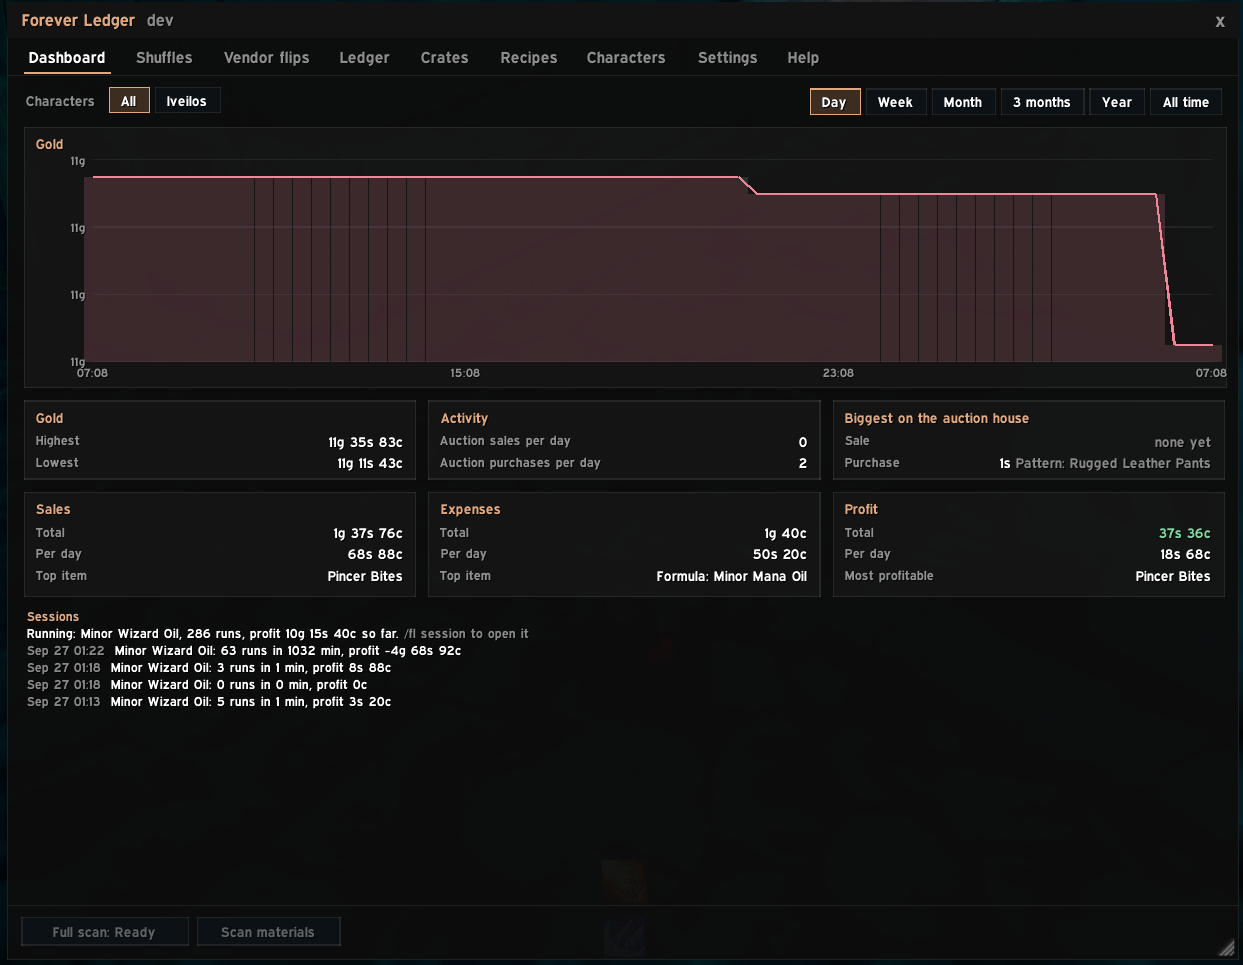
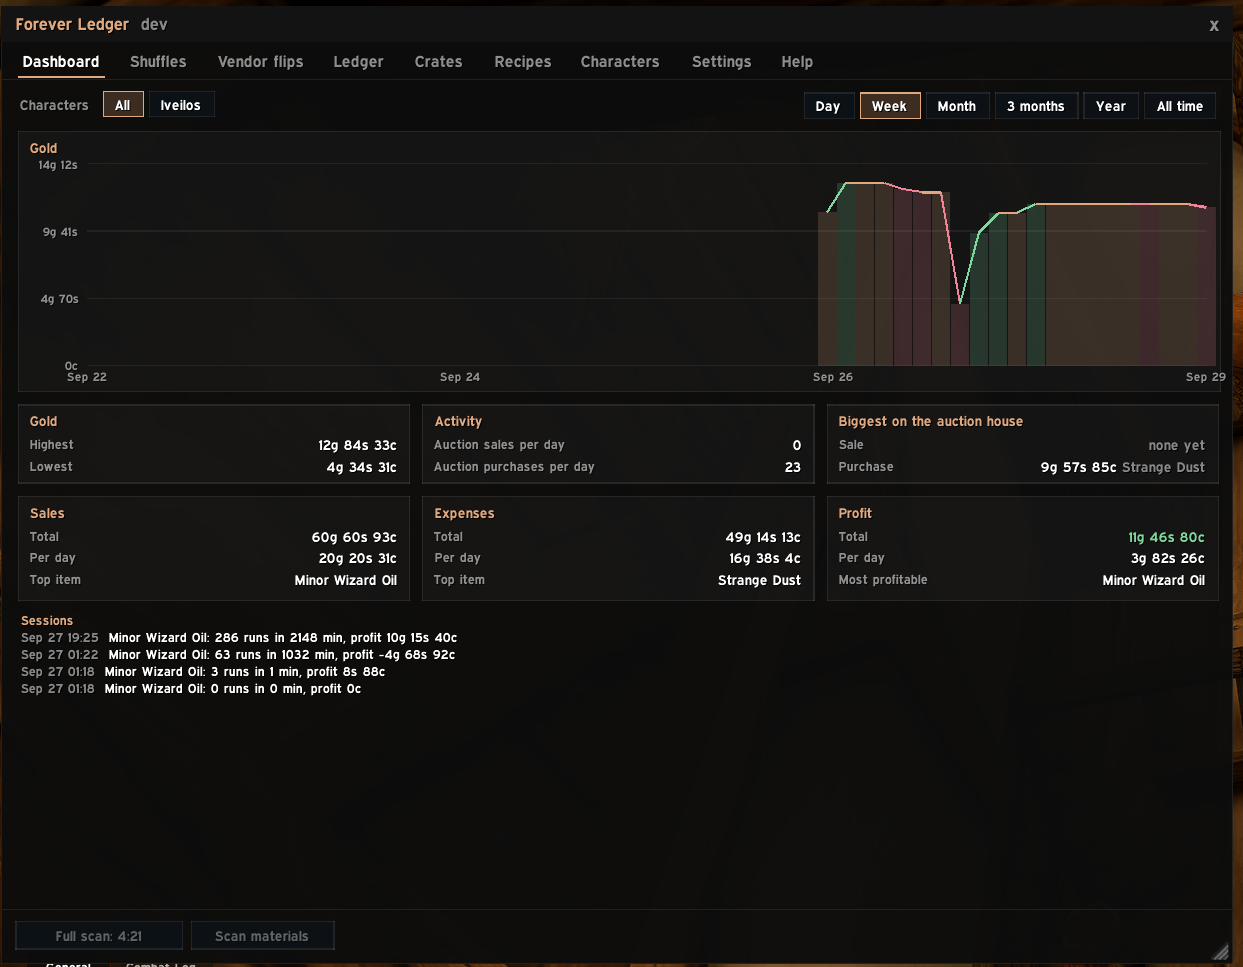
Add Recipes and Crates pictures to the guide and update the Dashboard one

diff --git a/docs/GUIDE.md b/docs/GUIDE.md
@@ -51,13 +51,15 @@ Everything the addon does, at a high level. The same text is in the game under *
 - **Where from**: what you've seen in game first, otherwise original Classic data marked "(Classic)". **Pin** puts a map pin on the vendor, trainer or mob.
 - **Trainers view**: trainers you've visited, Classic ones, and the spots city guards mark when you ask them for a profession trainer (marked "guard").
 
-<!-- image: images/recipes.png and images/trainers.png -->
+![Recipes tab, Cooking recipes not known yet](images/recipes.png)
+
+<!-- image: images/trainers.png -->
 
 ## Waylaid Crates
 
 - **Crates tab**: the cheapest way to fill each crate at today's prices, with the crate's own price and gold per Merchant's Favor. Click a crate for every bundle and what you already have in bags, bank and alts.
 
-<!-- image: images/crates.png -->
+![Crates tab](images/crates.png)
 
 ## Customers and work
 
